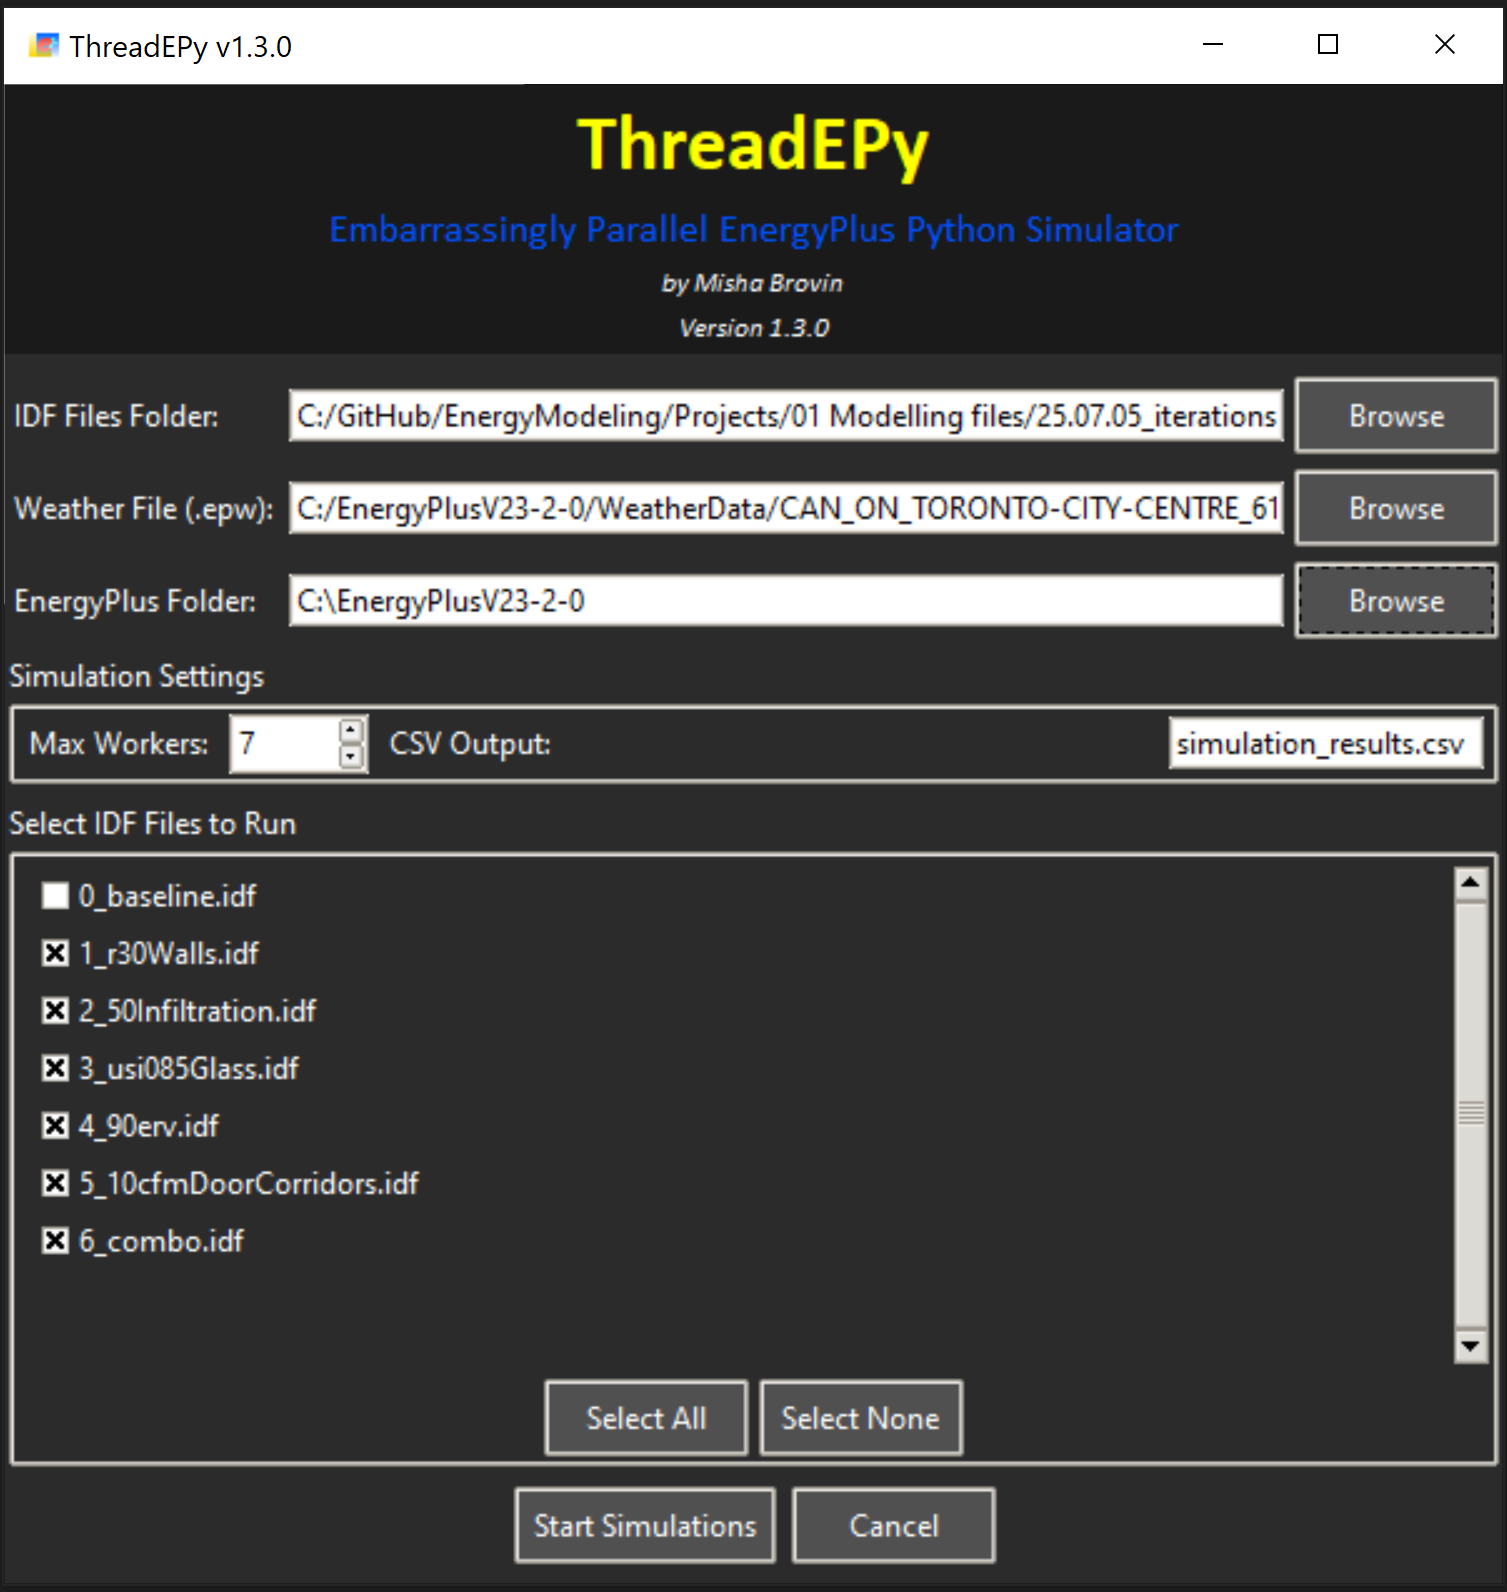
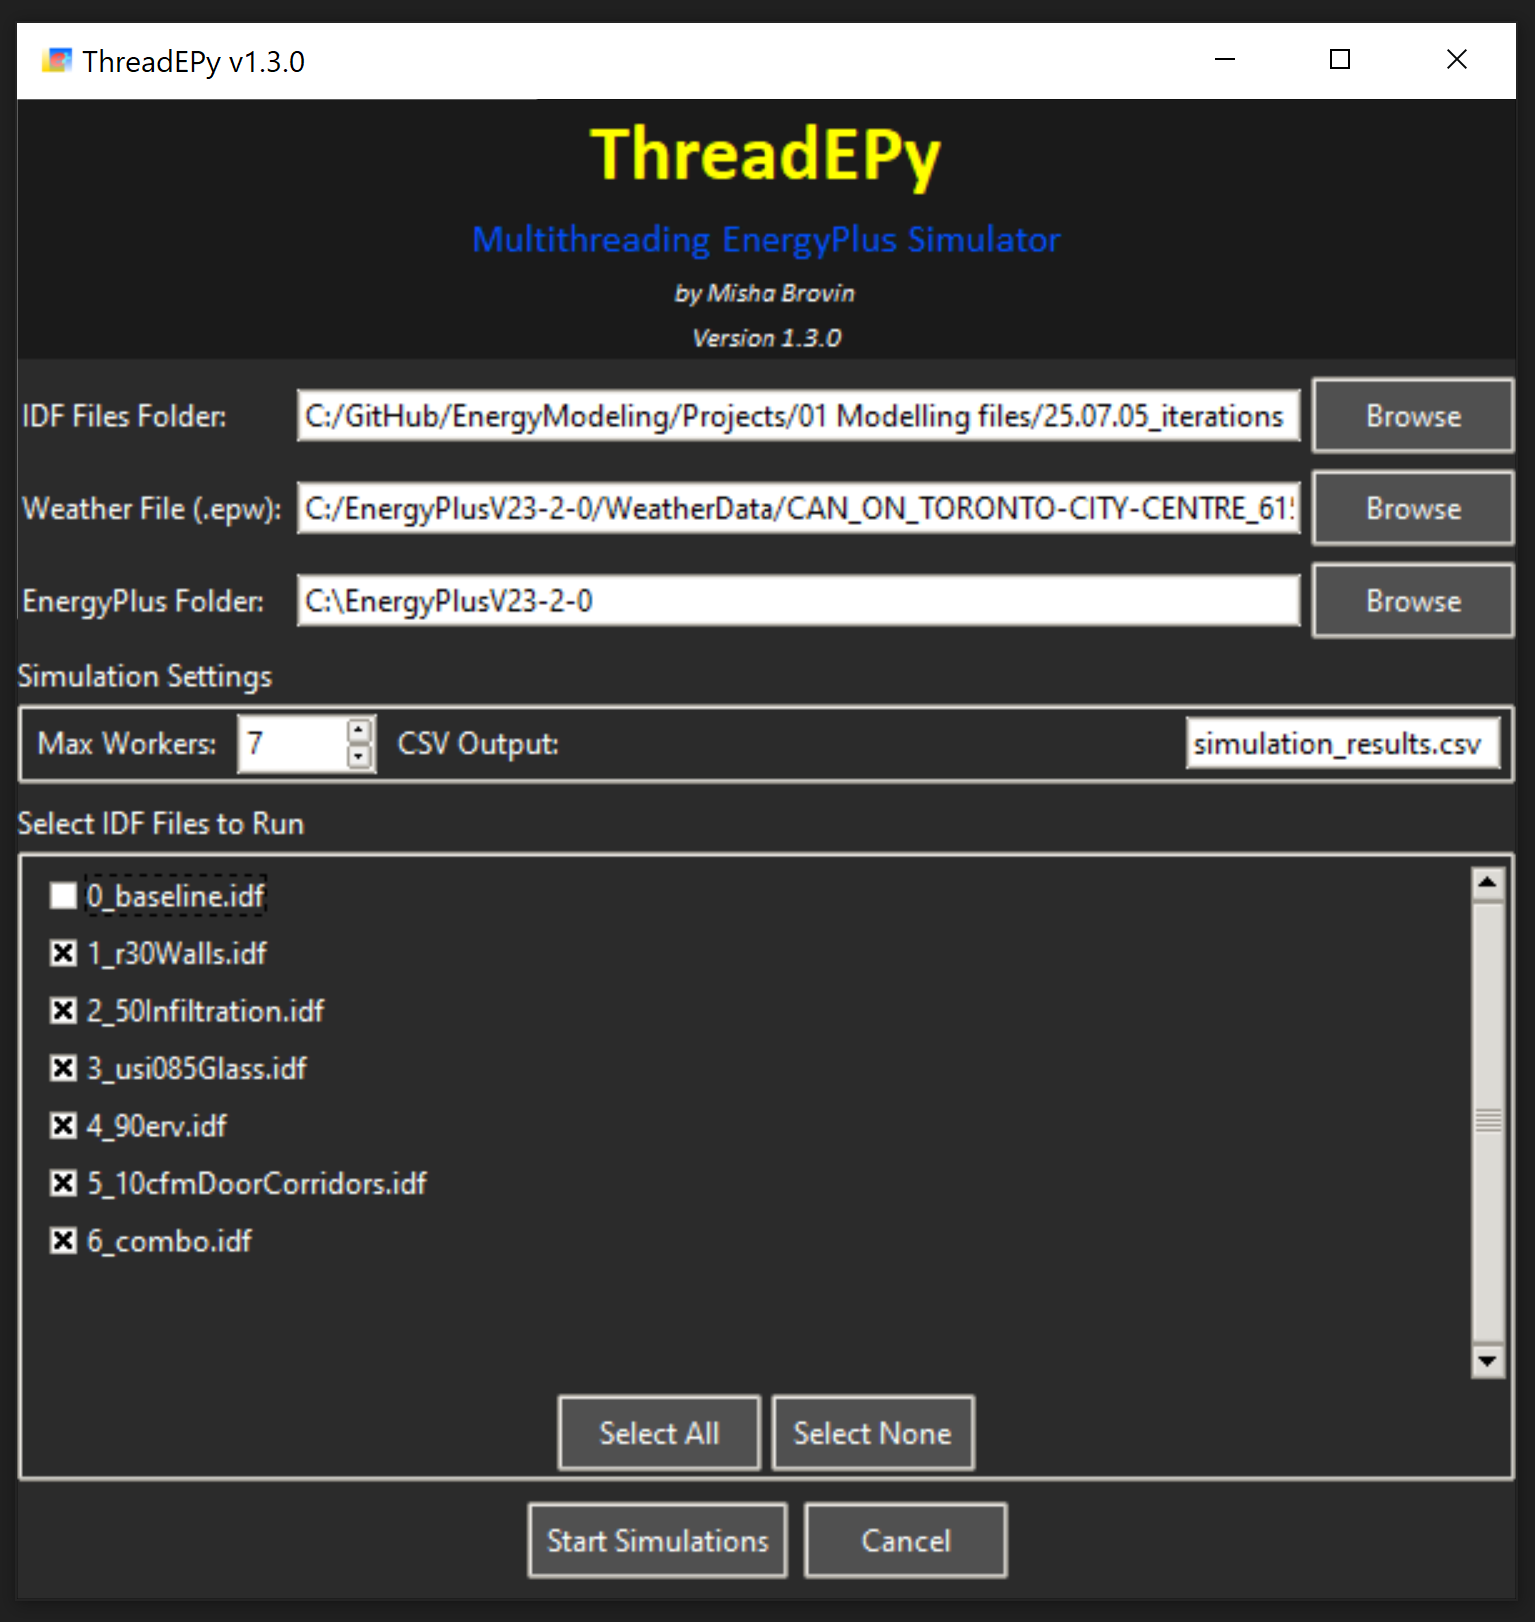
gui update

Changed region(s): [[0.0, 0.0, 0.998, 0.9849], [0.0, 0.2462, 0.1559, 0.277]]

diff --git a/eP_G.py b/eP_G.py
@@ -104,13 +104,16 @@ class EnergyPlusGUI:
         main_frame.columnconfigure(0, weight=1)
         main_frame.rowconfigure(1, weight=1)  # Content area gets most space
         
+
+
+
         banner_frame = ttk.Frame(main_frame, style='Banner.TFrame')
-        banner_frame.grid(row=0, column=0, sticky=(tk.W, tk.E), pady=(0, 2))
+        banner_frame.grid(row=0, column=0, sticky=(tk.W, tk.E), pady=(0, 0))
         banner_frame.columnconfigure(0, weight=1)
         
-        padding_y = "0.5m"
-        padding_x = "0.1m"
-        
+        padding_y = 0
+        padding_x = 0
+
         banner_content = ttk.Frame(banner_frame, style='Banner.TFrame')
         banner_content.grid(row=0, column=0, sticky=(tk.W, tk.E), padx=padding_x, pady=padding_y)
         banner_content.columnconfigure(0, weight=1)
@@ -120,7 +123,7 @@ class EnergyPlusGUI:
 
         subtitle_label1 = tk.Label(
             banner_content,
-            text="Embarrassingly Parallel EnergyPlus Python Simulator",
+            text="Multithreading EnergyPlus Simulator",
             fg="#0051FF",
             bg=UI_COLORS['banner_bg'],
             font=('Calibri', 12)
@@ -141,9 +144,11 @@ class EnergyPlusGUI:
         subtitle_label.grid(row=2, column=0, pady=(0, 0))
         subtitle_label.bind("<Button-1>", open_github_link)
 
-        
         version_label = ttk.Label(banner_content, text=f"Version {VERSION}", style='Version.TLabel', font=('Calibri', 8, 'italic'))
-        version_label.grid(row=3, column=0)
+        version_label.grid(row=3, column=0, pady=(0, 0))
+
+
+
         
         content_frame = ttk.Frame(main_frame, style='Dark.TFrame')
         content_frame.grid(row=1, column=0, sticky=(tk.W, tk.E, tk.N, tk.S), padx=padding_y, pady="1m")
